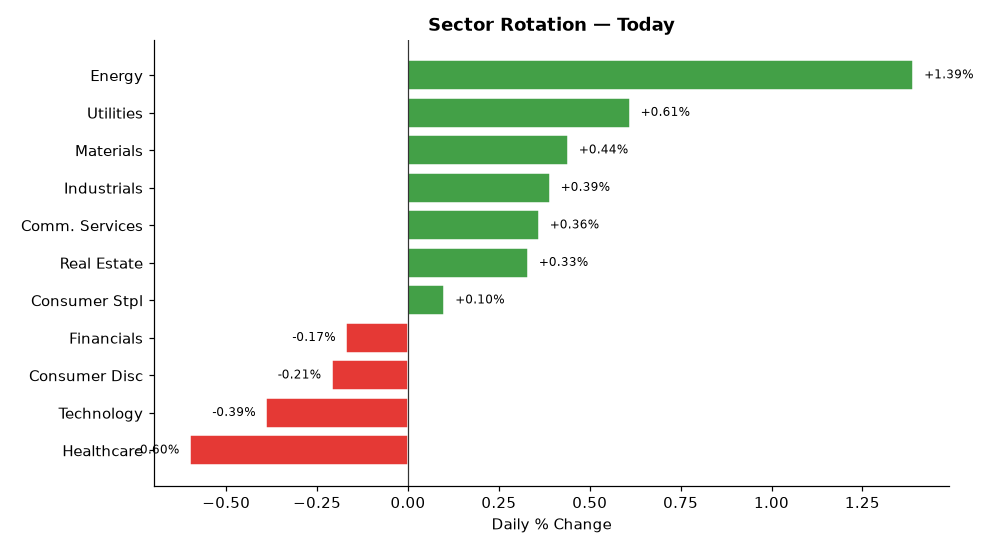
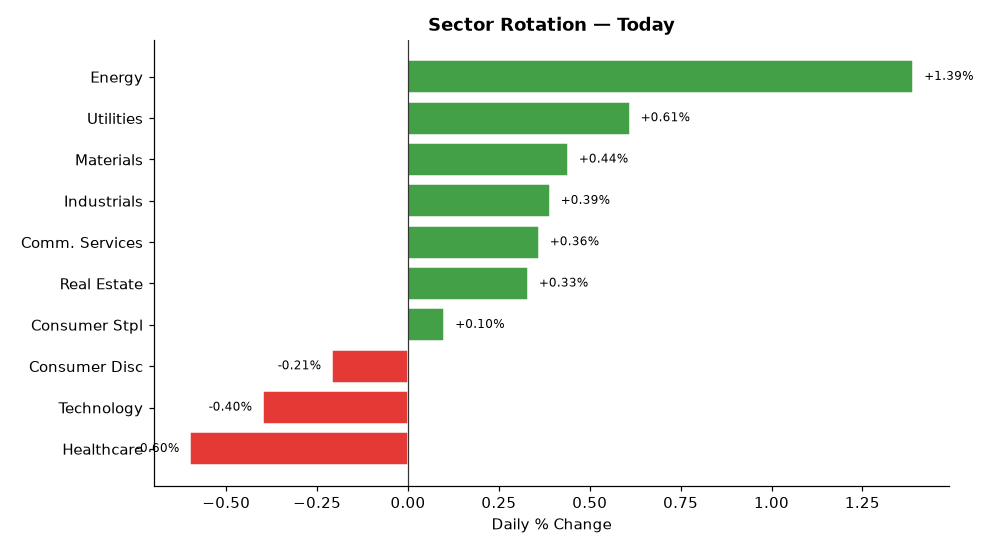
deploy: b7fadf5b06deb90e7ebb92f278722414bdd9750d

diff --git a/index.html b/index.html
@@ -4,7 +4,7 @@
   <meta charset="UTF-8">
   <meta name="viewport" content="width=device-width,initial-scale=1">
   <meta http-equiv="Cache-Control" content="no-cache,no-store,must-revalidate">
-  <title>Stock Breakout Screener — 2026-08-14 20:21</title>
+  <title>Stock Breakout Screener — 2026-08-14 22:15</title>
   <style>
     *{box-sizing:border-box;margin:0;padding:0}
     body{font-family:'Segoe UI',Arial,sans-serif;background:#f0f2f5;
@@ -34,7 +34,7 @@
 
 <div class="hdr">
   <h1>📈 Stock Breakout Screener</h1>
-  <p>Updated: 2026-08-14 20:21 UTC &nbsp;·&nbsp; Phase: After-Hours (4:00–8:00 PM ET) &nbsp;·&nbsp;
+  <p>Updated: 2026-08-14 22:15 UTC &nbsp;·&nbsp; Phase: After-Hours (4:00–8:00 PM ET) &nbsp;·&nbsp;
      129 stocks screened &nbsp;·&nbsp; Top 5 by conviction score</p>
 </div>
 
@@ -60,7 +60,24 @@
           <div style="display:flex;align-items:center;gap:10px;
                       flex-wrap:wrap;margin-bottom:10px">
             <span style="font-size:22px">🟡</span>
-            <span style="font-size:19px;font-weight:700">1. AMD</span>
+            <span style="font-size:19px;font-weight:700">1. JPM</span>
+            <span style="font-size:12px;color:#666">Financials</span>
+            <span style="margin-left:auto;background:#1a237e;color:#fff;
+                         padding:3px 12px;border-radius:12px;
+                         font-size:13px;font-weight:600">
+              11/17
+            </span>
+          </div>
+          <ul style="margin:0;padding-left:18px;font-size:13px;
+                     color:#333;line-height:1.8"><li style="margin:5px 0"><span style="background:#ffebee;color:#b71c1c;padding:2px 7px;border-radius:4px;font-size:11px;">❌</span> Volume: <b>0.6× average</b> — Above-average activity</li><li style="margin:5px 0"><span style="background:#ffebee;color:#b71c1c;padding:2px 7px;border-radius:4px;font-size:11px;">❌</span> Candle: close <b>$362.84</b> vs open <b>$363.00</b> (-0.0%) — regular market close</li><li style="margin:5px 0"><span style="background:#e8f5e9;color:#2e7d32;padding:2px 7px;border-radius:4px;font-size:11px;">✅</span> 200-Day MA: price <b>$362.84</b> vs MA <b>$314.73</b> — <b>✅ Above</b> long-term trend</li><li style="margin:5px 0"><span style="background:#e8f5e9;color:#2e7d32;padding:2px 7px;border-radius:4px;font-size:11px;">✅</span> Inst. ownership: <b>75.7%</b> · MFI: <b>65.7</b> · Market cap: <b>$964.5B</b></li></ul>
+        </div>
+        <div style="background:#fff;border:1px solid #ddd;border-radius:10px;
+                    padding:16px 20px;margin-bottom:12px;
+                    box-shadow:0 2px 6px rgba(0,0,0,.07)">
+          <div style="display:flex;align-items:center;gap:10px;
+                      flex-wrap:wrap;margin-bottom:10px">
+            <span style="font-size:22px">🟡</span>
+            <span style="font-size:19px;font-weight:700">2. AMD</span>
             <span style="font-size:12px;color:#666">Technology</span>
             <span style="margin-left:auto;background:#1a237e;color:#fff;
                          padding:3px 12px;border-radius:12px;
@@ -69,7 +86,7 @@
             </span>
           </div>
           <ul style="margin:0;padding-left:18px;font-size:13px;
-                     color:#333;line-height:1.8"><li style="margin:5px 0"><span style="background:#ffebee;color:#b71c1c;padding:2px 7px;border-radius:4px;font-size:11px;">❌</span> Volume: <b>0.7× average</b> — Above-average activity</li><li style="margin:5px 0"><span style="background:#e8f5e9;color:#2e7d32;padding:2px 7px;border-radius:4px;font-size:11px;">✅</span> Candle: close <b>$514.39</b> vs open <b>$487.60</b> (+5.5%) — regular market close</li><li style="margin:5px 0"><span style="background:#e8f5e9;color:#2e7d32;padding:2px 7px;border-radius:4px;font-size:11px;">✅</span> 200-Day MA: price <b>$514.39</b> vs MA <b>$383.29</b> — <b>✅ Above</b> long-term trend</li><li style="margin:5px 0"><span style="background:#e8f5e9;color:#2e7d32;padding:2px 7px;border-radius:4px;font-size:11px;">✅</span> Inst. ownership: <b>73.0%</b> · MFI: <b>50.8</b> · Market cap: <b>$839.7B</b></li><li style="margin:5px 0"><span style="background:#e8f5e9;color:#2e7d32;padding:2px 7px;border-radius:4px;font-size:11px;">✅</span> Last similar breakout: <b>Apr 24, 2026</b> → <b>+30.9%</b> over 10 trading days</li></ul>
+                     color:#333;line-height:1.8"><li style="margin:5px 0"><span style="background:#ffebee;color:#b71c1c;padding:2px 7px;border-radius:4px;font-size:11px;">❌</span> Volume: <b>0.7× average</b> — Above-average activity</li><li style="margin:5px 0"><span style="background:#e8f5e9;color:#2e7d32;padding:2px 7px;border-radius:4px;font-size:11px;">✅</span> Candle: close <b>$514.39</b> vs open <b>$487.60</b> (+5.5%) — regular market close</li><li style="margin:5px 0"><span style="background:#e8f5e9;color:#2e7d32;padding:2px 7px;border-radius:4px;font-size:11px;">✅</span> 200-Day MA: price <b>$514.39</b> vs MA <b>$383.29</b> — <b>✅ Above</b> long-term trend</li><li style="margin:5px 0"><span style="background:#e8f5e9;color:#2e7d32;padding:2px 7px;border-radius:4px;font-size:11px;">✅</span> Inst. ownership: <b>74.1%</b> · MFI: <b>50.8</b> · Market cap: <b>$839.7B</b></li><li style="margin:5px 0"><span style="background:#e8f5e9;color:#2e7d32;padding:2px 7px;border-radius:4px;font-size:11px;">✅</span> Last similar breakout: <b>Apr 24, 2026</b> → <b>+30.9%</b> over 10 trading days</li></ul>
         </div>
         <div style="background:#fff;border:1px solid #ddd;border-radius:10px;
                     padding:16px 20px;margin-bottom:12px;
@@ -77,8 +94,8 @@
           <div style="display:flex;align-items:center;gap:10px;
                       flex-wrap:wrap;margin-bottom:10px">
             <span style="font-size:22px">🟡</span>
-            <span style="font-size:19px;font-weight:700">2. WMB</span>
-            <span style="font-size:12px;color:#666">Energy</span>
+            <span style="font-size:19px;font-weight:700">3. BAC</span>
+            <span style="font-size:12px;color:#666">Financials</span>
             <span style="margin-left:auto;background:#1a237e;color:#fff;
                          padding:3px 12px;border-radius:12px;
                          font-size:13px;font-weight:600">
@@ -86,7 +103,7 @@
             </span>
           </div>
           <ul style="margin:0;padding-left:18px;font-size:13px;
-                     color:#333;line-height:1.8"><li style="margin:5px 0"><span style="background:#ffebee;color:#b71c1c;padding:2px 7px;border-radius:4px;font-size:11px;">❌</span> Volume: <b>0.5× average</b> — Above-average activity</li><li style="margin:5px 0"><span style="background:#ffebee;color:#b71c1c;padding:2px 7px;border-radius:4px;font-size:11px;">❌</span> Candle: close <b>$75.20</b> vs open <b>$73.43</b> (+2.4%) — regular market close</li><li style="margin:5px 0"><span style="background:#e8f5e9;color:#2e7d32;padding:2px 7px;border-radius:4px;font-size:11px;">✅</span> 200-Day MA: price <b>$75.20</b> vs MA <b>$73.08</b> — <b>✅ Above</b> long-term trend</li><li style="margin:5px 0"><span style="background:#e8f5e9;color:#2e7d32;padding:2px 7px;border-radius:4px;font-size:11px;">✅</span> Inst. ownership: <b>90.0%</b> · MFI: <b>77.2</b> · Market cap: <b>$92.0B</b></li></ul>
+                     color:#333;line-height:1.8"><li style="margin:5px 0"><span style="background:#ffebee;color:#b71c1c;padding:2px 7px;border-radius:4px;font-size:11px;">❌</span> Volume: <b>0.5× average</b> — Above-average activity</li><li style="margin:5px 0"><span style="background:#ffebee;color:#b71c1c;padding:2px 7px;border-radius:4px;font-size:11px;">❌</span> Candle: close <b>$64.49</b> vs open <b>$64.04</b> (+0.7%) — regular market close</li><li style="margin:5px 0"><span style="background:#e8f5e9;color:#2e7d32;padding:2px 7px;border-radius:4px;font-size:11px;">✅</span> 200-Day MA: price <b>$64.49</b> vs MA <b>$54.16</b> — <b>✅ Above</b> long-term trend</li><li style="margin:5px 0"><span style="background:#e8f5e9;color:#2e7d32;padding:2px 7px;border-radius:4px;font-size:11px;">✅</span> Inst. ownership: <b>71.5%</b> · MFI: <b>71.4</b> · Market cap: <b>$451.0B</b></li></ul>
         </div>
         <div style="background:#fff;border:1px solid #ddd;border-radius:10px;
                     padding:16px 20px;margin-bottom:12px;
@@ -94,8 +111,8 @@
           <div style="display:flex;align-items:center;gap:10px;
                       flex-wrap:wrap;margin-bottom:10px">
             <span style="font-size:22px">🟡</span>
-            <span style="font-size:19px;font-weight:700">3. OKE</span>
-            <span style="font-size:12px;color:#666">Energy</span>
+            <span style="font-size:19px;font-weight:700">4. WFC</span>
+            <span style="font-size:12px;color:#666">Financials</span>
             <span style="margin-left:auto;background:#1a237e;color:#fff;
                          padding:3px 12px;border-radius:12px;
                          font-size:13px;font-weight:600">
@@ -103,7 +120,7 @@
             </span>
           </div>
           <ul style="margin:0;padding-left:18px;font-size:13px;
-                     color:#333;line-height:1.8"><li style="margin:5px 0"><span style="background:#ffebee;color:#b71c1c;padding:2px 7px;border-radius:4px;font-size:11px;">❌</span> Volume: <b>0.5× average</b> — Above-average activity</li><li style="margin:5px 0"><span style="background:#ffebee;color:#b71c1c;padding:2px 7px;border-radius:4px;font-size:11px;">❌</span> Candle: close <b>$94.99</b> vs open <b>$93.50</b> (+1.6%) — regular market close</li><li style="margin:5px 0"><span style="background:#e8f5e9;color:#2e7d32;padding:2px 7px;border-radius:4px;font-size:11px;">✅</span> 200-Day MA: price <b>$94.99</b> vs MA <b>$87.06</b> — <b>✅ Above</b> long-term trend</li><li style="margin:5px 0"><span style="background:#e8f5e9;color:#2e7d32;padding:2px 7px;border-radius:4px;font-size:11px;">✅</span> Inst. ownership: <b>85.2%</b> · MFI: <b>60.9</b> · Market cap: <b>$59.8B</b></li></ul>
+                     color:#333;line-height:1.8"><li style="margin:5px 0"><span style="background:#ffebee;color:#b71c1c;padding:2px 7px;border-radius:4px;font-size:11px;">❌</span> Volume: <b>0.5× average</b> — Above-average activity</li><li style="margin:5px 0"><span style="background:#ffebee;color:#b71c1c;padding:2px 7px;border-radius:4px;font-size:11px;">❌</span> Candle: close <b>$88.82</b> vs open <b>$88.07</b> (+0.9%) — regular market close</li><li style="margin:5px 0"><span style="background:#e8f5e9;color:#2e7d32;padding:2px 7px;border-radius:4px;font-size:11px;">✅</span> 200-Day MA: price <b>$88.82</b> vs MA <b>$81.53</b> — <b>✅ Above</b> long-term trend</li><li style="margin:5px 0"><span style="background:#e8f5e9;color:#2e7d32;padding:2px 7px;border-radius:4px;font-size:11px;">✅</span> Inst. ownership: <b>78.8%</b> · MFI: <b>63.7</b> · Market cap: <b>$268.6B</b></li></ul>
         </div>
         <div style="background:#fff;border:1px solid #ddd;border-radius:10px;
                     padding:16px 20px;margin-bottom:12px;
@@ -111,8 +128,8 @@
           <div style="display:flex;align-items:center;gap:10px;
                       flex-wrap:wrap;margin-bottom:10px">
             <span style="font-size:22px">🟡</span>
-            <span style="font-size:19px;font-weight:700">4. BKR</span>
-            <span style="font-size:12px;color:#666">Energy</span>
+            <span style="font-size:19px;font-weight:700">5. C</span>
+            <span style="font-size:12px;color:#666">Financials</span>
             <span style="margin-left:auto;background:#1a237e;color:#fff;
                          padding:3px 12px;border-radius:12px;
                          font-size:13px;font-weight:600">
@@ -120,24 +137,7 @@
             </span>
           </div>
           <ul style="margin:0;padding-left:18px;font-size:13px;
-                     color:#333;line-height:1.8"><li style="margin:5px 0"><span style="background:#ffebee;color:#b71c1c;padding:2px 7px;border-radius:4px;font-size:11px;">❌</span> Volume: <b>0.7× average</b> — Above-average activity</li><li style="margin:5px 0"><span style="background:#ffebee;color:#b71c1c;padding:2px 7px;border-radius:4px;font-size:11px;">❌</span> Candle: close <b>$64.82</b> vs open <b>$63.54</b> (+2.0%) — regular market close</li><li style="margin:5px 0"><span style="background:#e8f5e9;color:#2e7d32;padding:2px 7px;border-radius:4px;font-size:11px;">✅</span> 200-Day MA: price <b>$64.82</b> vs MA <b>$61.25</b> — <b>✅ Above</b> long-term trend</li><li style="margin:5px 0"><span style="background:#e8f5e9;color:#2e7d32;padding:2px 7px;border-radius:4px;font-size:11px;">✅</span> Inst. ownership: <b>100.5%</b> · MFI: <b>62.8</b> · Market cap: <b>$64.3B</b></li></ul>
-        </div>
-        <div style="background:#fff;border:1px solid #ddd;border-radius:10px;
-                    padding:16px 20px;margin-bottom:12px;
-                    box-shadow:0 2px 6px rgba(0,0,0,.07)">
-          <div style="display:flex;align-items:center;gap:10px;
-                      flex-wrap:wrap;margin-bottom:10px">
-            <span style="font-size:22px">🟡</span>
-            <span style="font-size:19px;font-weight:700">5. PSX</span>
-            <span style="font-size:12px;color:#666">Energy</span>
-            <span style="margin-left:auto;background:#1a237e;color:#fff;
-                         padding:3px 12px;border-radius:12px;
-                         font-size:13px;font-weight:600">
-              11/17
-            </span>
-          </div>
-          <ul style="margin:0;padding-left:18px;font-size:13px;
-                     color:#333;line-height:1.8"><li style="margin:5px 0"><span style="background:#ffebee;color:#b71c1c;padding:2px 7px;border-radius:4px;font-size:11px;">❌</span> Volume: <b>0.7× average</b> — Above-average activity</li><li style="margin:5px 0"><span style="background:#ffebee;color:#b71c1c;padding:2px 7px;border-radius:4px;font-size:11px;">❌</span> Candle: close <b>$233.61</b> vs open <b>$232.66</b> (+0.4%) — regular market close</li><li style="margin:5px 0"><span style="background:#e8f5e9;color:#2e7d32;padding:2px 7px;border-radius:4px;font-size:11px;">✅</span> 200-Day MA: price <b>$233.61</b> vs MA <b>$178.20</b> — <b>✅ Above</b> long-term trend</li><li style="margin:5px 0"><span style="background:#e8f5e9;color:#2e7d32;padding:2px 7px;border-radius:4px;font-size:11px;">✅</span> Inst. ownership: <b>81.4%</b> · MFI: <b>72.2</b> · Market cap: <b>$93.2B</b></li></ul>
+                     color:#333;line-height:1.8"><li style="margin:5px 0"><span style="background:#ffebee;color:#b71c1c;padding:2px 7px;border-radius:4px;font-size:11px;">❌</span> Volume: <b>0.5× average</b> — Above-average activity</li><li style="margin:5px 0"><span style="background:#ffebee;color:#b71c1c;padding:2px 7px;border-radius:4px;font-size:11px;">❌</span> Candle: close <b>$139.33</b> vs open <b>$138.16</b> (+0.8%) — regular market close</li><li style="margin:5px 0"><span style="background:#e8f5e9;color:#2e7d32;padding:2px 7px;border-radius:4px;font-size:11px;">✅</span> 200-Day MA: price <b>$139.33</b> vs MA <b>$125.85</b> — <b>✅ Above</b> long-term trend</li><li style="margin:5px 0"><span style="background:#e8f5e9;color:#2e7d32;padding:2px 7px;border-radius:4px;font-size:11px;">✅</span> Inst. ownership: <b>82.4%</b> · MFI: <b>68.3</b> · Market cap: <b>$233.7B</b></li></ul>
         </div>
 
 
@@ -168,13 +168,31 @@
   
         <tr>
           <td style="font-weight:700;text-align:left;padding-left:10px">
+            🟡 JPM</td>
+          <td style="background:#ffcdd2">0.6×</td>
+          <td style="background:#ffcdd2">-0.0%</td>
+          <td style="background:#c8e6c9">
+            ▲ Above</td>
+          <td style="background:#c8e6c9">
+            75.7%</td>
+          <td style="background:#c8e6c9">
+            65.7</td>
+          <td style="background:#c8e6c9">Financials</td>
+          <td style="background:#c8e6c9">
+            105.9%</td>
+          <td style="background:#ffcdd2">
+            N/A</td>
+          <td style="font-weight:800;font-size:15px">11/17</td>
+        </tr>
+        <tr>
+          <td style="font-weight:700;text-align:left;padding-left:10px">
             🟡 AMD</td>
           <td style="background:#ffcdd2">0.7×</td>
           <td style="background:#c8e6c9">+5.5%</td>
           <td style="background:#c8e6c9">
             ▲ Above</td>
           <td style="background:#c8e6c9">
-            73.0%</td>
+            74.1%</td>
           <td style="background:#fff9c4">
             50.8</td>
           <td style="background:#ffcdd2">Technology</td>
@@ -186,72 +204,54 @@
         </tr>
         <tr>
           <td style="font-weight:700;text-align:left;padding-left:10px">
-            🟡 WMB</td>
+            🟡 BAC</td>
           <td style="background:#ffcdd2">0.5×</td>
-          <td style="background:#ffcdd2">+2.4%</td>
+          <td style="background:#ffcdd2">+0.7%</td>
           <td style="background:#c8e6c9">
             ▲ Above</td>
           <td style="background:#c8e6c9">
-            90.0%</td>
+            71.5%</td>
           <td style="background:#c8e6c9">
-            77.2</td>
-          <td style="background:#c8e6c9">Energy</td>
+            71.4</td>
+          <td style="background:#c8e6c9">Financials</td>
           <td style="background:#c8e6c9">
-            116.4%</td>
+            294.9%</td>
           <td style="background:#ffcdd2">
             N/A</td>
           <td style="font-weight:800;font-size:15px">11/17</td>
         </tr>
         <tr>
           <td style="font-weight:700;text-align:left;padding-left:10px">
-            🟡 OKE</td>
+            🟡 WFC</td>
           <td style="background:#ffcdd2">0.5×</td>
-          <td style="background:#ffcdd2">+1.6%</td>
+          <td style="background:#ffcdd2">+0.9%</td>
           <td style="background:#c8e6c9">
             ▲ Above</td>
           <td style="background:#c8e6c9">
-            85.2%</td>
+            78.8%</td>
           <td style="background:#c8e6c9">
-            60.9</td>
-          <td style="background:#c8e6c9">Energy</td>
+            63.7</td>
+          <td style="background:#c8e6c9">Financials</td>
           <td style="background:#c8e6c9">
-            95.6%</td>
+            147.6%</td>
           <td style="background:#ffcdd2">
             N/A</td>
           <td style="font-weight:800;font-size:15px">11/17</td>
         </tr>
         <tr>
           <td style="font-weight:700;text-align:left;padding-left:10px">
-            🟡 BKR</td>
-          <td style="background:#ffcdd2">0.7×</td>
-          <td style="background:#ffcdd2">+2.0%</td>
+            🟡 C</td>
+          <td style="background:#ffcdd2">0.5×</td>
+          <td style="background:#ffcdd2">+0.8%</td>
           <td style="background:#c8e6c9">
             ▲ Above</td>
           <td style="background:#c8e6c9">
-            100.5%</td>
+            82.4%</td>
           <td style="background:#c8e6c9">
-            62.8</td>
-          <td style="background:#c8e6c9">Energy</td>
+            68.3</td>
+          <td style="background:#c8e6c9">Financials</td>
           <td style="background:#c8e6c9">
-            131.2%</td>
-          <td style="background:#ffcdd2">
-            N/A</td>
-          <td style="font-weight:800;font-size:15px">11/17</td>
-        </tr>
-        <tr>
-          <td style="font-weight:700;text-align:left;padding-left:10px">
-            🟡 PSX</td>
-          <td style="background:#ffcdd2">0.7×</td>
-          <td style="background:#ffcdd2">+0.4%</td>
-          <td style="background:#c8e6c9">
-            ▲ Above</td>
-          <td style="background:#c8e6c9">
-            81.4%</td>
-          <td style="background:#c8e6c9">
-            72.2</td>
-          <td style="background:#c8e6c9">Energy</td>
-          <td style="background:#c8e6c9">
-            261.7%</td>
+            123.3%</td>
           <td style="background:#ffcdd2">
             N/A</td>
           <td style="font-weight:800;font-size:15px">11/17</td>
@@ -277,43 +277,43 @@
       
         <tr>
           <td style="text-align:left;padding-left:10px;font-weight:600">
-            #1 Energy</td>
+            #1 Financials</td>
+          <td style="background:#ffebee;color:#c62828;font-weight:700">+nan%</td>
+        </tr>
+        <tr>
+          <td style="text-align:left;padding-left:10px;font-weight:600">
+            #2 Energy</td>
           <td style="background:#e8f5e9;color:#2e7d32;font-weight:700">+1.39%</td>
         </tr>
         <tr>
           <td style="text-align:left;padding-left:10px;font-weight:600">
-            #2 Utilities</td>
+            #3 Utilities</td>
           <td style="background:#e8f5e9;color:#2e7d32;font-weight:700">+0.61%</td>
         </tr>
         <tr>
           <td style="text-align:left;padding-left:10px;font-weight:600">
-            #3 Materials</td>
+            #4 Materials</td>
           <td style="background:#e8f5e9;color:#2e7d32;font-weight:700">+0.44%</td>
         </tr>
         <tr>
           <td style="text-align:left;padding-left:10px;font-weight:600">
-            #4 Industrials</td>
+            #5 Industrials</td>
           <td style="background:#e8f5e9;color:#2e7d32;font-weight:700">+0.39%</td>
         </tr>
         <tr>
           <td style="text-align:left;padding-left:10px;font-weight:600">
-            #5 Comm. Services</td>
+            #6 Comm. Services</td>
           <td style="background:#e8f5e9;color:#2e7d32;font-weight:700">+0.36%</td>
         </tr>
         <tr>
           <td style="text-align:left;padding-left:10px;font-weight:600">
-            #6 Real Estate</td>
+            #7 Real Estate</td>
           <td style="background:#e8f5e9;color:#2e7d32;font-weight:700">+0.33%</td>
         </tr>
         <tr>
           <td style="text-align:left;padding-left:10px;font-weight:600">
-            #7 Consumer Stpl</td>
+            #8 Consumer Stpl</td>
           <td style="background:#e8f5e9;color:#2e7d32;font-weight:700">+0.10%</td>
-        </tr>
-        <tr>
-          <td style="text-align:left;padding-left:10px;font-weight:600">
-            #8 Financials</td>
-          <td style="background:#ffebee;color:#c62828;font-weight:700">-0.17%</td>
         </tr>
         <tr>
           <td style="text-align:left;padding-left:10px;font-weight:600">
@@ -323,7 +323,7 @@
         <tr>
           <td style="text-align:left;padding-left:10px;font-weight:600">
             #10 Technology</td>
-          <td style="background:#ffebee;color:#c62828;font-weight:700">-0.39%</td>
+          <td style="background:#ffebee;color:#c62828;font-weight:700">-0.40%</td>
         </tr>
         <tr>
           <td style="text-align:left;padding-left:10px;font-weight:600">
@@ -367,7 +367,7 @@
         <li><b>Scoring weights:</b>
             Inst.Own(3) · Sector(3) · Volume(2) · Breakout(2) ·
             MA200(2) · MFI(2) · History(2) · IV(1) = 17pts max</li>
-        <li><b>Run time:</b> 2026-08-14 20:21 UTC — Market phase: After-Hours (4:00–8:00 PM ET)</li>
+        <li><b>Run time:</b> 2026-08-14 22:15 UTC — Market phase: After-Hours (4:00–8:00 PM ET)</li>
       </ul>
     </div>
 
